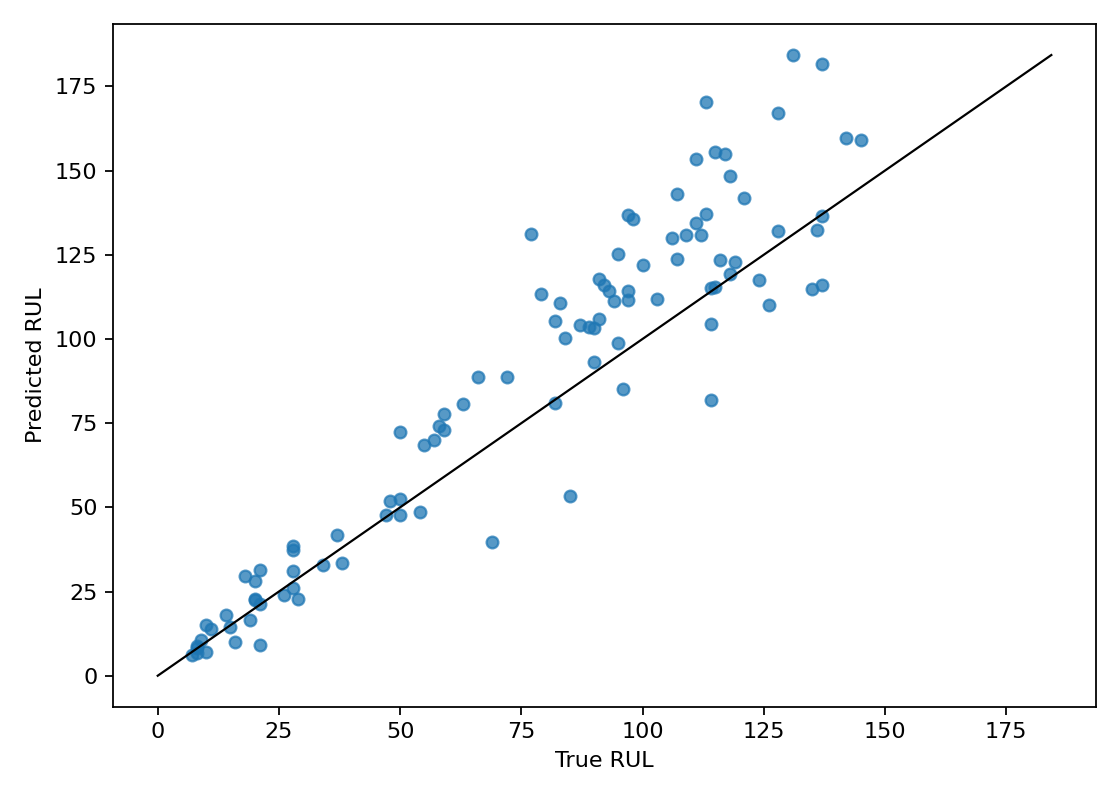
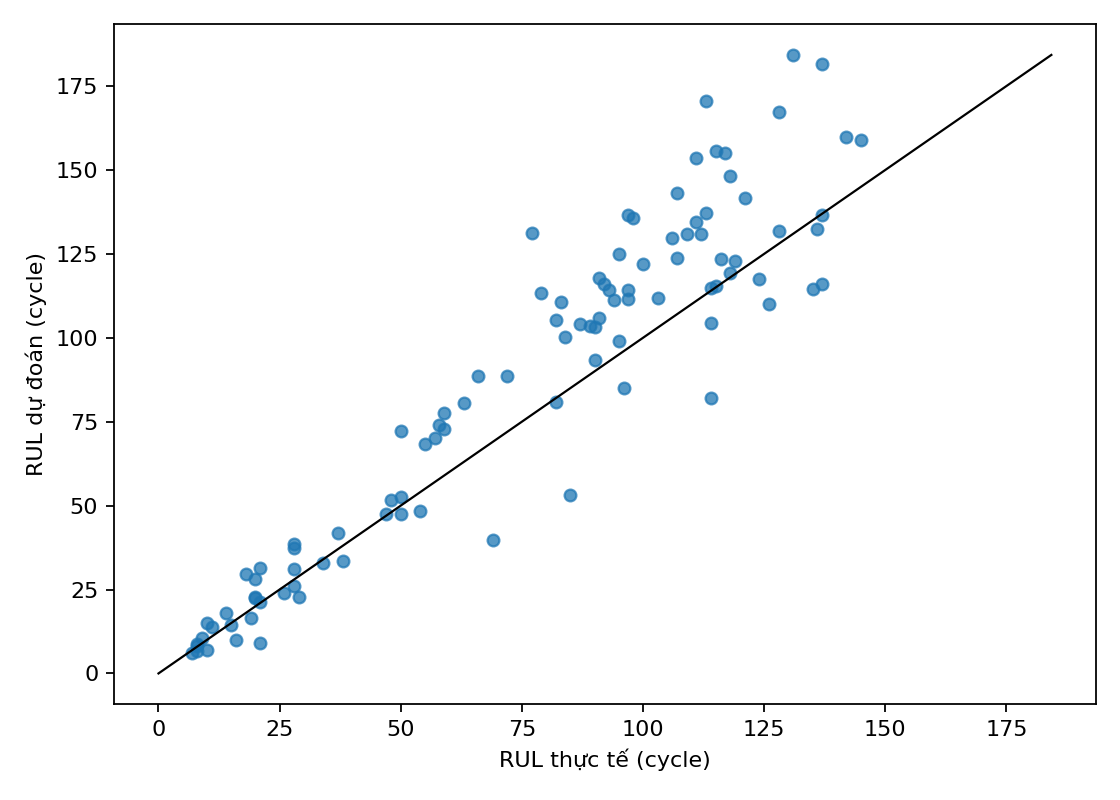
style(report): Vietnamese figure labels and formal wording in the report
- Relabel the warning trajectory, true-vs-predicted and residual figures in
  Vietnamese and regenerate them from the stored OOF and final predictions
  (no retraining).
- Replace remaining conversational phrases in the report sections with
  formal academic wording.

diff --git a/src/cmapss/modeling/pipeline.py b/src/cmapss/modeling/pipeline.py
@@ -296,15 +296,15 @@ def _write_warning_figure(
         & oof_predictions["model_name"].eq(str(event["model_name"]))
     ].sort_values("cycle", kind="mergesort")
     fig, ax = plt.subplots(figsize=(8, 4.5))
-    ax.plot(frame["cycle"], frame["y_true"], label="Actual RUL", color="#2166ac")
-    ax.plot(frame["cycle"], frame["y_pred"], label="OOF prediction", color="#b2182b")
-    ax.axhline(int(event["rul_threshold"]), color="#f28e2b", linestyle="--", label="Warning threshold")
-    ax.axvline(int(event["failure_cycle"]), color="black", linestyle="--", linewidth=0.8, label="Failure proxy")
+    ax.plot(frame["cycle"], frame["y_true"], label="RUL thực tế", color="#2166ac")
+    ax.plot(frame["cycle"], frame["y_pred"], label="RUL dự đoán (OOF)", color="#b2182b")
+    ax.axhline(int(event["rul_threshold"]), color="#f28e2b", linestyle="--", label="Ngưỡng cảnh báo")
+    ax.axvline(int(event["failure_cycle"]), color="black", linestyle="--", linewidth=0.8, label="Thời điểm hỏng hóc")
     if int(event["first_warning_cycle"]) >= 0:
-        ax.axvline(int(event["first_warning_cycle"]), color="#762a83", linestyle=":", label="First warning")
+        ax.axvline(int(event["first_warning_cycle"]), color="#762a83", linestyle=":", label="Cảnh báo đầu tiên")
     ax.set_xlabel("Cycle")
-    ax.set_ylabel("RUL (cycles)")
-    ax.set_title(f"Train OOF early-warning trajectory — engine {int(event['engine_id'])}")
+    ax.set_ylabel("RUL (cycle)")
+    ax.set_title(f"Quỹ đạo cảnh báo sớm trên dự đoán OOF — động cơ train {int(event['engine_id'])}")
     ax.grid(alpha=0.2)
     ax.legend()
     fig.tight_layout()
@@ -563,8 +563,8 @@ def _write_final_figures(evaluation: pd.DataFrame, figure_dir: Path) -> dict[str
     plt.scatter(evaluation["y_true"], evaluation["y_pred"], s=28, alpha=0.75)
     max_value = float(max(evaluation["y_true"].max(), evaluation["y_pred"].max()))
     plt.plot([0, max_value], [0, max_value], color="black", linewidth=1)
-    plt.xlabel("True RUL")
-    plt.ylabel("Predicted RUL")
+    plt.xlabel("RUL thực tế (cycle)")
+    plt.ylabel("RUL dự đoán (cycle)")
     plt.tight_layout()
     plt.savefig(scatter_path, dpi=160)
     plt.close()
@@ -573,8 +573,8 @@ def _write_final_figures(evaluation: pd.DataFrame, figure_dir: Path) -> dict[str
     plt.figure(figsize=(7, 5))
     plt.scatter(evaluation["y_true"], residual, s=28, alpha=0.75)
     plt.axhline(0.0, color="black", linewidth=1)
-    plt.xlabel("True RUL")
-    plt.ylabel("Prediction error")
+    plt.xlabel("RUL thực tế (cycle)")
+    plt.ylabel("Sai số dự đoán: dự đoán − thực tế (cycle)")
     plt.tight_layout()
     plt.savefig(residual_path, dpi=160)
     plt.close()

diff --git a/report/sections/theory.tex b/report/sections/theory.tex
@@ -127,12 +127,13 @@ sensor. Dấu của PC1 được chọn sao cho chỉ số giảm dần theo cyc
 ứng với trạng thái xấu hơn.
 
 Khi không có nhãn bất thường, một cách phổ biến là định nghĩa trạng thái bình
-thường từ chính dữ liệu lúc thiết bị còn khỏe, rồi báo khi giá trị đi xa khỏi
+thường từ chính dữ liệu ở giai đoạn vận hành ổn định, rồi báo khi giá trị lệch khỏi
 trạng thái đó quá một số lần độ lệch chuẩn. Ngưỡng ba độ lệch chuẩn tương ứng với
-xác suất rất nhỏ nếu dao động là ngẫu nhiên quanh mức khỏe; yêu cầu vượt ngưỡng
-nhiều cycle liên tiếp giảm thêm báo động do một gai đơn lẻ. Cách làm này đo được
+xác suất rất nhỏ nếu dao động là ngẫu nhiên quanh mức tham chiếu; yêu cầu vượt
+ngưỡng nhiều cycle liên tiếp làm giảm thêm cảnh báo sinh ra từ một giá trị ngoại lai
+đơn lẻ. Cách làm này đo được
 thời điểm phát hiện, nhưng không đo được tỷ lệ báo động giả nếu không có dữ liệu
-động cơ khỏe đến cuối.
+động cơ vận hành bình thường đến hết chuỗi quan sát.
 
 Chuỗi Health Index $h_t$ của từng động cơ được mô hình hóa bằng
 ARIMA$(p,d,q)$~\cite{hyndman2021fpp3}:

diff --git a/report/sections/conclusion.tex b/report/sections/conclusion.tex
@@ -28,8 +28,8 @@ sau:
 \end{enumerate}
 
 Sản phẩm chính của báo cáo là lịch dự đoán thời điểm cần bảo trì cho từng động
-cơ, dựa trên hai mức cảnh báo bổ sung cho nhau: mức một báo động cơ đã rời trạng
-thái khỏe, mức hai báo thời điểm cần bảo trì; cả hai được thể hiện trên biểu đồ xu
+cơ, dựa trên hai mức cảnh báo bổ sung cho nhau: mức một báo động cơ đã lệch khỏi
+trạng thái vận hành ổn định, mức hai báo thời điểm cần bảo trì; cả hai được thể hiện trên biểu đồ xu
 hướng và biểu đồ kế hoạch bảo trì. Các thử nghiệm mở rộng cho thấy mô hình
 FD001 không dùng trực tiếp được cho điều kiện vận hành khác, và các hướng tinh
 chỉnh mô hình chưa làm thay đổi kết luận chính. Kết quả chỉ áp dụng cho dữ liệu mô
